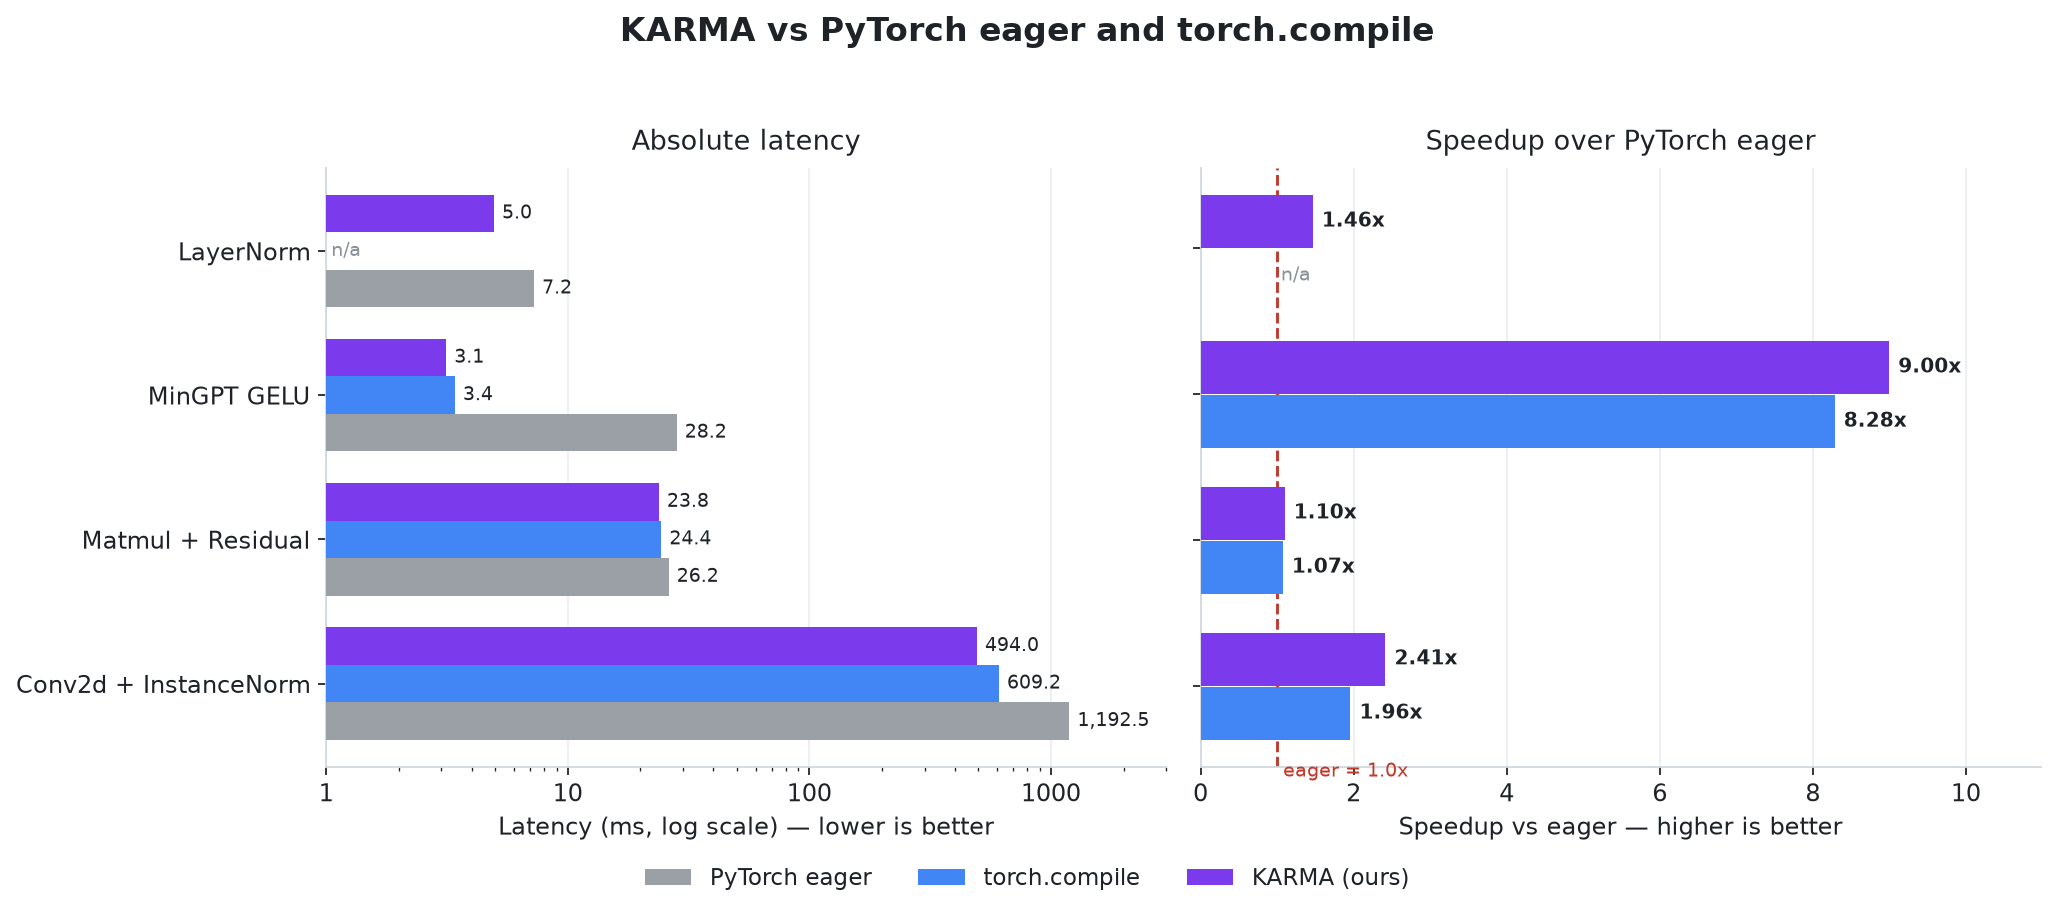
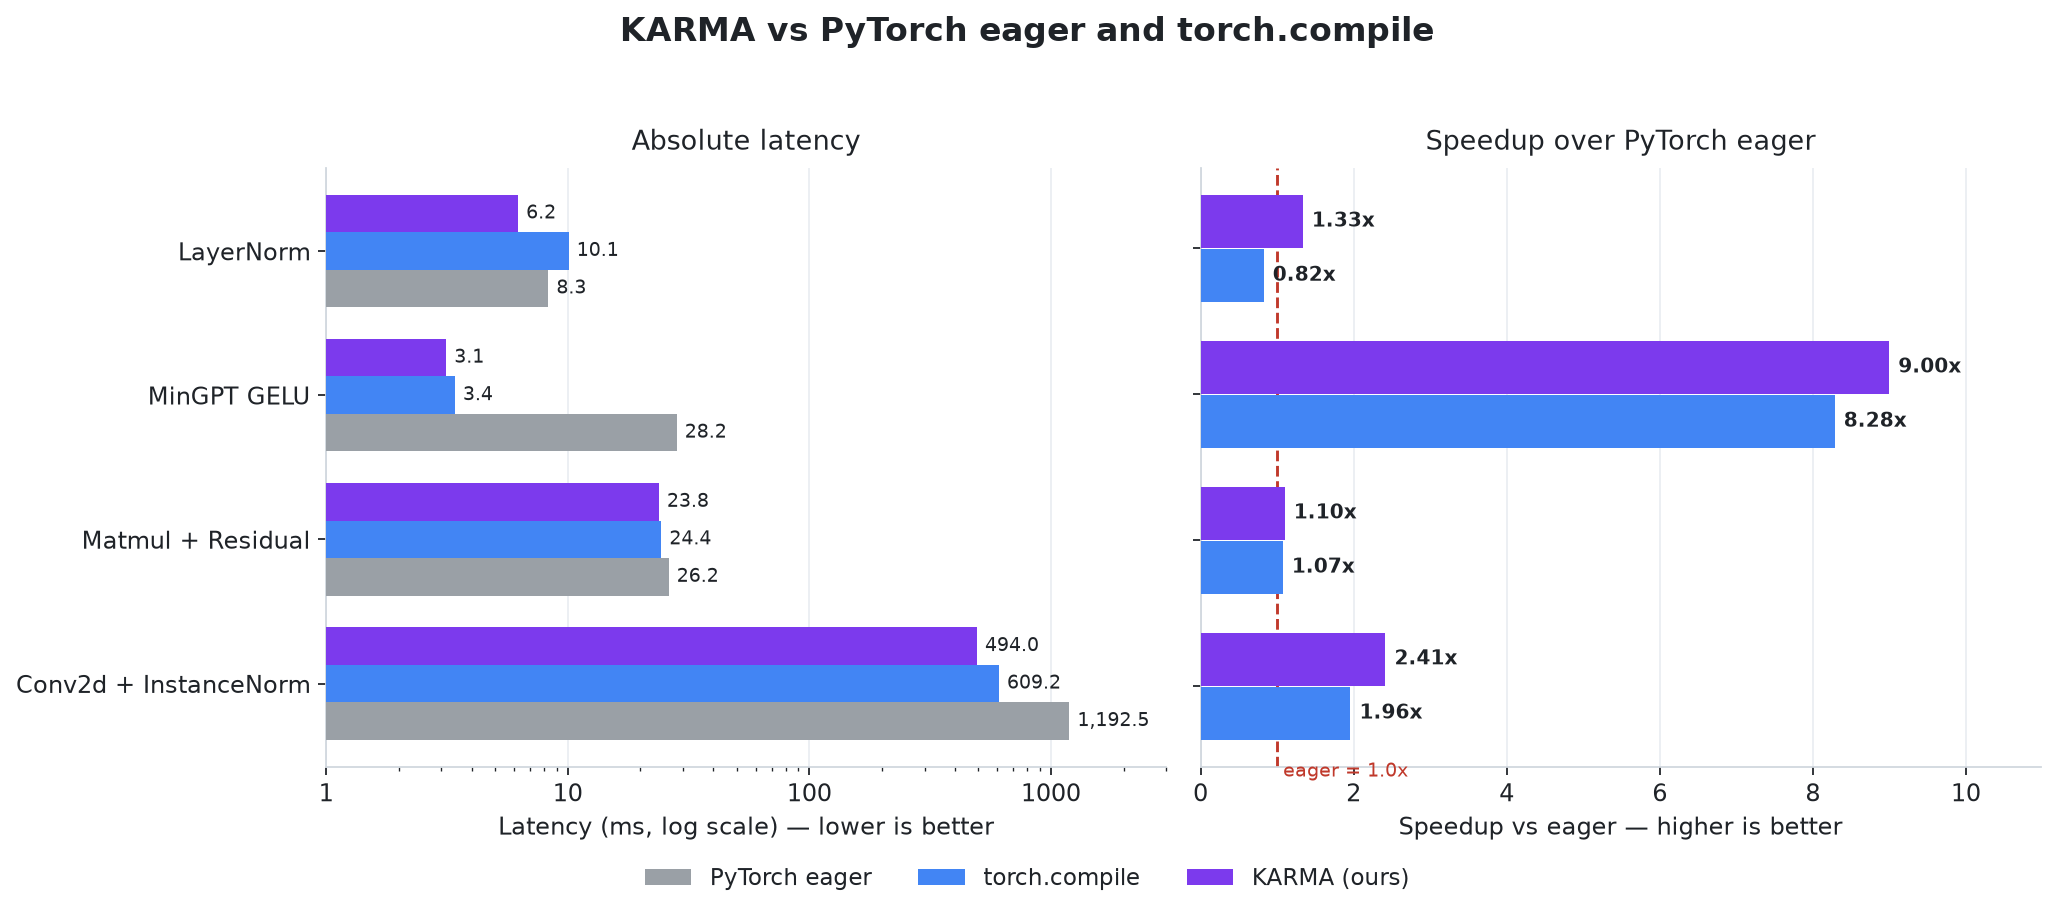
README: fill LayerNorm torch.compile with a co-measured number
The old LayerNorm run predated racing torch.compile, so its cell was n/a.
Re-raced eager/torch.compile/KARMA back-to-back in one sitting (drift-free)
and replaced all three LayerNorm cells with that triple. Notable: torch.compile
regresses LayerNorm (10.09ms vs 8.31ms eager) — guard/dispatch overhead on an
already-fused op — so KARMA wins by 1.62x there. Figure regenerated.

Changed region(s): [[0.1556, 0.214, 0.2802, 0.3362], [0.5603, 0.214, 0.6848, 0.3362]]

diff --git a/scripts/plot_benchmarks.py b/scripts/plot_benchmarks.py
@@ -15,7 +15,7 @@ from matplotlib.ticker import FuncFormatter
 
 # kernel -> (eager_ms, compile_ms | None, karma_ms)
 BENCH = {
-    "LayerNorm":            (7.25,    None,   4.95),
+    "LayerNorm":            (8.31,    10.09,  6.23),
     "MinGPT GELU":          (28.25,   3.41,   3.14),
     "Matmul + Residual":    (26.17,   24.40,  23.84),
     "Conv2d + InstanceNorm": (1192.51, 609.25, 493.98),

diff --git a/README.md b/README.md
@@ -22,12 +22,12 @@ KARMA automatically optimizes CUDA kernels generated from PyTorch operators. Eve
 
 | Kernel | PyTorch Eager | torch.compile | KARMA |
 |---------|--------------:|--------------:|-------:|
-| LayerNorm | 7.25 ms | — | **4.95 ms** |
+| LayerNorm | 8.31 ms | 10.09 ms | **6.23 ms** |
 | MinGPT GELU | 28.25 ms | 3.41 ms | **3.14 ms** |
 | Matmul + Residual | 26.17 ms | 24.40 ms | **23.84 ms** |
 | Conv2d + InstanceNorm | 1192.51 ms | 609.25 ms | **493.98 ms** |
 
-KARMA beats `torch.compile` on every kernel measured — from a 1.46x win on LayerNorm to 2.41x vs eager (1.23x vs `torch.compile`) on the Conv2d + InstanceNorm fused chain. Measured on an RTX 4050 Laptop (sm_89). Regenerate the figure with `python scripts/plot_benchmarks.py`.
+KARMA beats `torch.compile` on every kernel measured — from a 1.33x win on LayerNorm to 2.41x vs eager (1.23x vs `torch.compile`) on the Conv2d + InstanceNorm fused chain. On LayerNorm `torch.compile` is actually *slower* than eager (10.09 ms vs 8.31 ms): the guard/dispatch overhead does not pay off on an op that is already a single fused kernel, so KARMA's hand-tuned reduction wins by 1.62x there. Each row's three numbers are raced **back-to-back in one sitting** so the comparison is drift-free. Measured on an RTX 4050 Laptop (sm_89). Regenerate the figure with `python scripts/plot_benchmarks.py`.
 
 ---
 